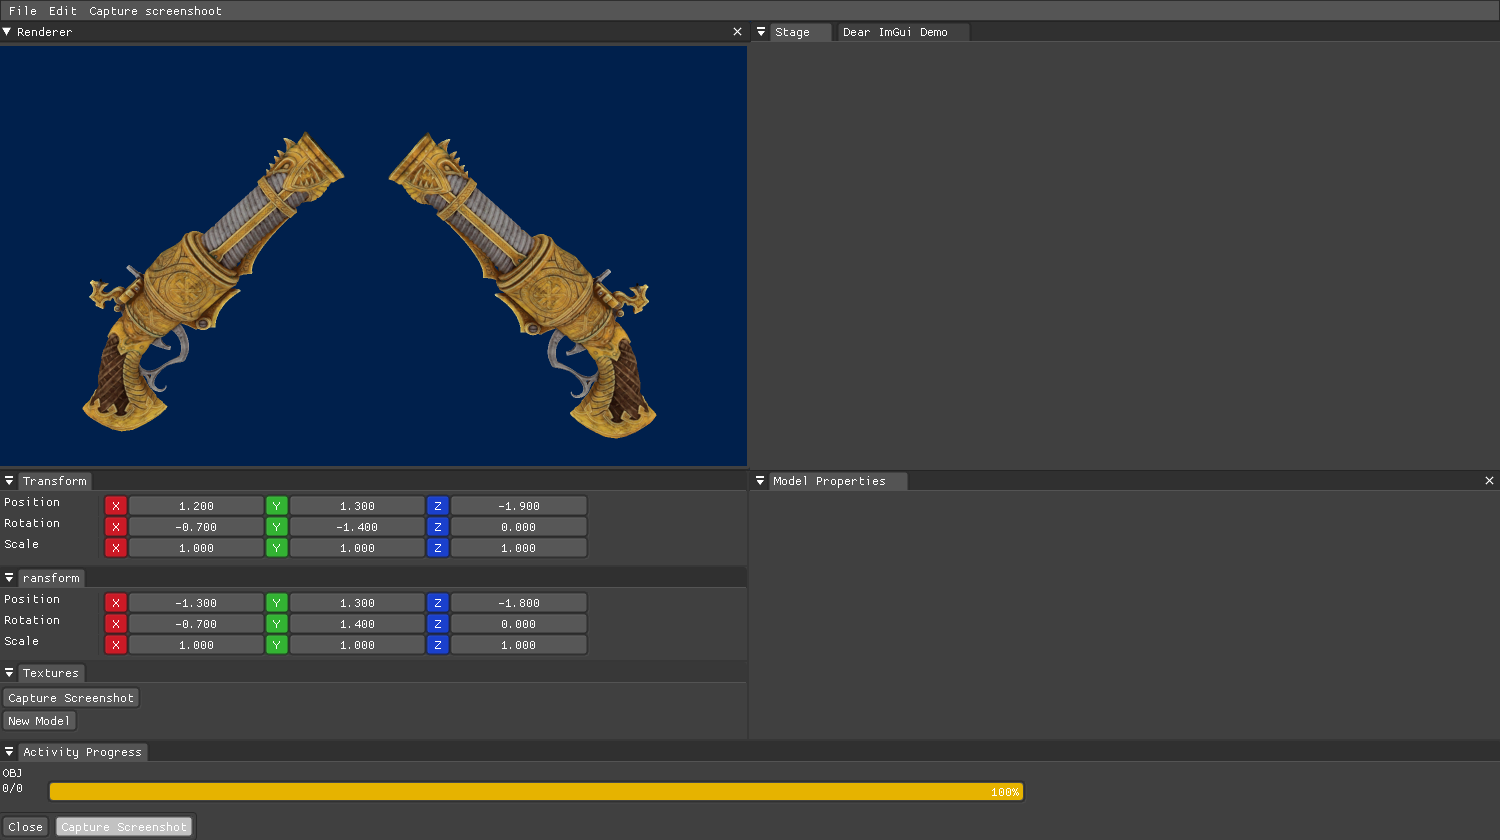
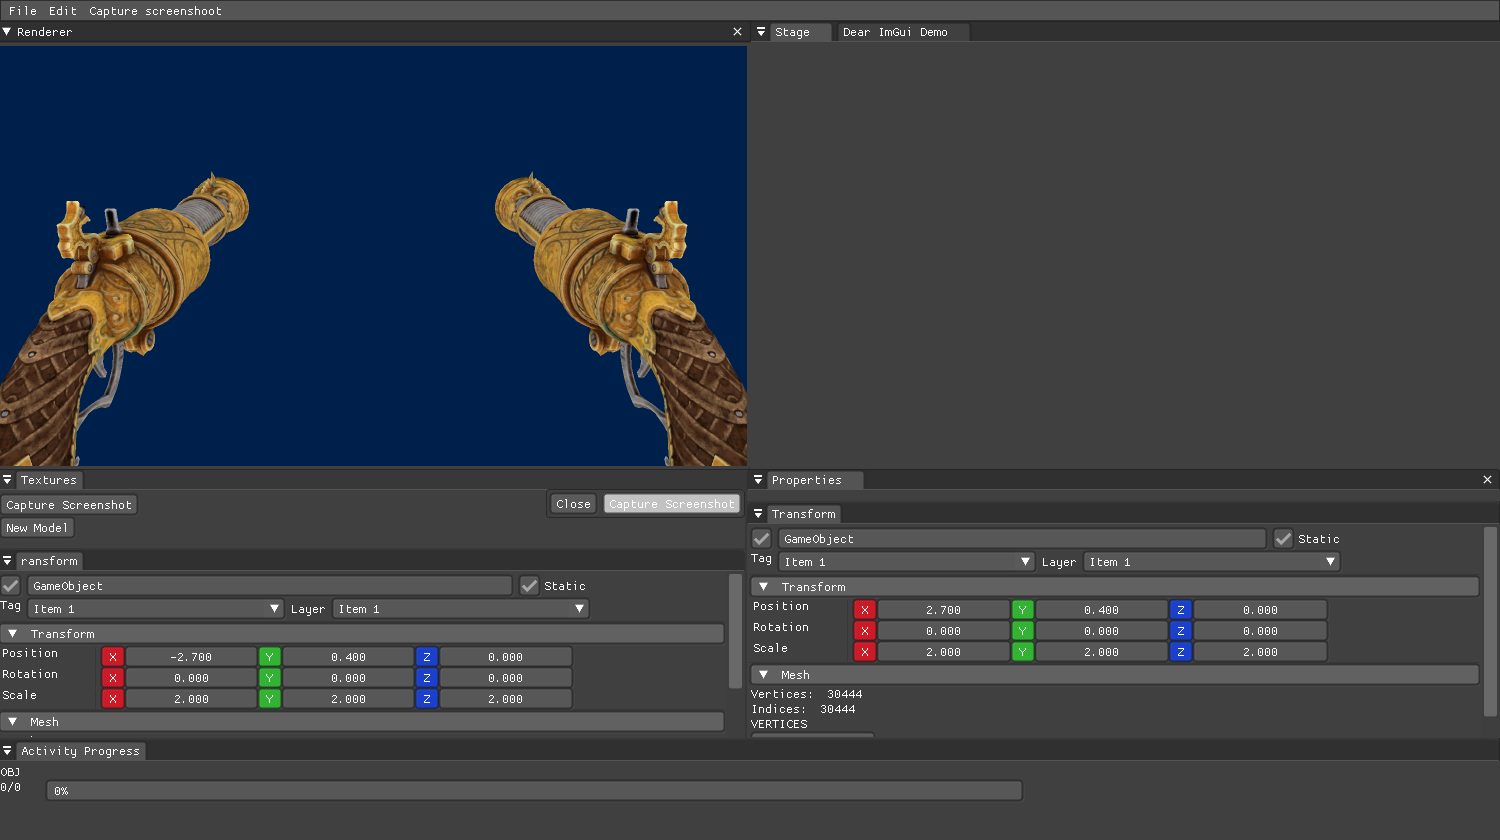
main - Inspector Window

diff --git a/Tutorial07/src/Model.cpp b/Tutorial07/src/Model.cpp
@@ -2,7 +2,7 @@
 #include "Device.h"
 #include "DeviceContext.h"
 
-void 
+void
 Model::init(Device device, LoadData loadData) {
   m_loadData = loadData;
   g_vertexBuffer.init(device, loadData);
@@ -14,7 +14,7 @@ Model::init(Device device, LoadData loadData) {
   m_transform.init();
 }
 
-void 
+void
 Model::update(DeviceContext& deviceContext, std::string wName) {
   m_transform.update();
   CBChangesEveryFrame cb2;
@@ -22,10 +22,10 @@ Model::update(DeviceContext& deviceContext, std::string wName) {
   XMFLOAT4                            g_vMeshColor(1, 1, 1, 1);
   cb2.vMeshColor = g_vMeshColor;
   g_modelBuffer.update(deviceContext, 0, nullptr, &cb2, 0, 0);
-  m_transform.ui(wName.c_str());
+  //m_transform.ui(wName.c_str());
 }
 
-void 
+void
 Model::render(DeviceContext& deviceContext, unsigned int StartSlot, unsigned int NumBuffers) {
   g_vertexBuffer.render(deviceContext, StartSlot, NumBuffers);
   g_indexBuffer.render(deviceContext);
@@ -36,19 +36,80 @@ Model::render(DeviceContext& deviceContext, unsigned int StartSlot, unsigned int
   deviceContext.DrawIndexed(m_loadData.numIndex, 0, 0);
 }
 
-void 
+void
 Model::destroy() {
   g_modelBuffer.destroy();
   g_vertexBuffer.destroy();
   g_indexBuffer.destroy();
 }
 
-void 
+void
+Model::ui(std::string wName) {
+  static char post_text[1024] = "";
+  char inputValue[64] = "GameObject";
+  bool checkboxValue;
+  bool checkboxValue2;
+  ImGui::Begin(wName.c_str());
+  // Agregar el checkbox a la izquierda del input text
+  ImGui::Checkbox("", &checkboxValue);
+  ImGui::SameLine();
+  ImGui::InputText("", inputValue, IM_ARRAYSIZE(inputValue), 64);
+
+  // Agregar el texto "Static" a la derecha del input text
+  //ImGui::SameLine(0, ImGui::GetWindowWidth() - ImGui::GetCursorPosX() - 100);
+  ImGui::SameLine();
+  ImGui::Checkbox("Static", &checkboxValue2);
+  static const char* items[] = { "Item 1", "Item 2", "Item 3" };
+  static int currentItem = 0;
+  ImGui::Text("Tag");
+  ImGui::SameLine();
+  ImGui::SetNextItemWidth(258);
+  ImGui::Combo("##TagCombo", &currentItem, items, IM_ARRAYSIZE(items));
+  ImGui::SameLine();
+  ImGui::Text("Layer");
+  ImGui::SameLine();
+  ImGui::SetNextItemWidth(258);
+  ImGui::Combo("##LayerCombo", &currentItem, items, IM_ARRAYSIZE(items));
+
+
+  ImGui::Separator();
+  // Transform Component
+  ImGui::SetNextItemWidth(200);
+  if (ImGui::CollapsingHeader("Transform", ImGuiTreeNodeFlags_DefaultOpen)) {
+    m_transform.ui_noWindow("");
+
+  }
+  ImGui::Separator();
+  // Mesh Component
+  if (ImGui::CollapsingHeader("Mesh", ImGuiTreeNodeFlags_DefaultOpen)) {
+    ImGui::Text("Vertices: ");
+    ImGui::SameLine();
+    ImGui::Text(std::to_string( m_loadData.numVertex).c_str());
+    ImGui::Text("Indices: ");
+    ImGui::SameLine();
+    ImGui::Text(std::to_string( m_loadData.numIndex).c_str());
+    ImGui::Text("VERTICES");
+    if (ImGui::Button("Load Vertex Data")) {
+      std::string vertexPositions;
+      for (int i = 0; i < m_loadData.vertex.size(); i++) {
+        vertexPositions += "(" + std::to_string(m_loadData.vertex[i].Pos.x) + ", " +
+          std::to_string(m_loadData.vertex[i].Pos.y) + ", " +
+          std::to_string(m_loadData.vertex[i].Pos.z) + ") \n ";
+      }
+    }
+
+
+  }
+  ImGui::Separator();
+  ImGui::End();
+}
+
+void
 Model::setTransform(Transform t) {
   m_transform = t;
 }
 
-Transform 
+Transform
 Model::getTransform() {
   return m_transform;
 }

diff --git a/Tutorial07/src/Transform.cpp b/Tutorial07/src/Transform.cpp
@@ -77,3 +77,39 @@ Transform::ui(std::string wName) {
 
   ImGui::End();
 }
+
+void 
+Transform::ui_noWindow(std::string wName) {
+  // Get the position
+  m_pos[0] = m_position.x;
+  m_pos[1] = m_position.y;
+  m_pos[2] = m_position.z;
+
+  m_rot[0] = m_rotation.x;
+  m_rot[1] = m_rotation.y;
+  m_rot[2] = m_rotation.z;
+
+  m_sca[0] = m_scale.x;
+  m_sca[1] = m_scale.y;
+  m_sca[2] = m_scale.z;
+
+
+  // Draw the structure
+  UI.vec3Control("Position", m_pos);
+  UI.vec3Control("Rotation", m_rot);
+  UI.vec3Control("Scale", m_sca);
+
+  // Set the position 
+  m_position.x = m_pos[0];
+  m_position.y = m_pos[1];
+  m_position.z = m_pos[2];
+
+  m_rotation.x = m_rot[0];
+  m_rotation.y = m_rot[1];
+  m_rotation.z = m_rot[2];
+
+  m_scale.x = m_sca[0];
+  m_scale.y = m_sca[1];
+  m_scale.z = m_sca[2];
+
+}

diff --git a/Tutorial07/src/ShaderProgram.cpp b/Tutorial07/src/ShaderProgram.cpp
@@ -29,6 +29,8 @@ ShaderProgram::update() {
 
 void 
 ShaderProgram::render(DeviceContext& deviceContext) {
+  // Establecer el InputLayout
+  deviceContext.IASetInputLayout(m_inputLayout.m_inputLayout);
   // Establecer los shaders
   deviceContext.VSSetShader(m_VertexShader, nullptr, 0);
   deviceContext.PSSetShader(m_PixelShader, nullptr, 0);

diff --git a/Tutorial07/Include/Model.h b/Tutorial07/Include/Model.h
@@ -4,6 +4,7 @@
 #include "IndexBuffer.h"
 #include "ConstantBuffer.h"
 #include "Transform.h"
+#include "UserInterface.h"
 class Device;
 class DeviceContext;
 
@@ -24,6 +25,9 @@ public:
   
   void 
   destroy();
+  
+  void
+  ui(std::string wName);
 
   void 
   setTransform(Transform t);

diff --git a/Tutorial07/Include/Transform.h b/Tutorial07/Include/Transform.h
@@ -23,6 +23,9 @@ public:
 
   void 
   ui(std::string wName);
+  
+  void 
+  ui_noWindow(std::string wName);
 public:
 	Vector3f m_position;
 	Vector3f m_rotation;
